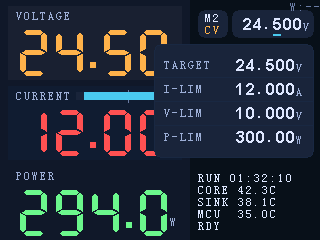
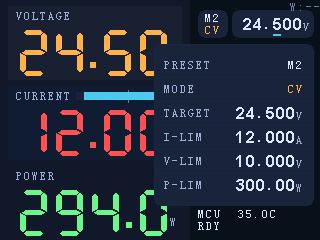
feat(ui-mock): add preset+mode rows to preview panel

diff --git a/tools/ui-mock/src/preset_preview_panel.rs b/tools/ui-mock/src/preset_preview_panel.rs
@@ -27,9 +27,12 @@ const COLOR_BG: u32 = 0x1c2638;
 const COLOR_BORDER: u32 = 0x1c2a3f;
 const COLOR_TEXT_LABEL: u32 = 0x9ab0d8;
 const COLOR_TEXT_VALUE: u32 = 0xdfe7ff;
+const COLOR_MODE_CV: u32 = 0xffb24a;
+const COLOR_MODE_CC: u32 = 0xff5252;
 
 #[derive(Clone, Debug)]
 pub struct PresetPreviewPanelVm {
+    pub preset_id: u8,
     pub mode: LoadMode,
     pub target_text: String<8>,
     pub v_lim_text: String<8>,
@@ -43,8 +46,8 @@ pub fn render_preset_preview_panel(
 ) {
     let mode = normalize_mode(vm.mode);
     let rows = match mode {
-        LoadMode::Cv => 4,
-        _ => 3,
+        LoadMode::Cv => 6,
+        _ => 5,
     };
     let panel_h = BORDER * 2 + PAD_Y * 2 + rows * ROW_H;
 
@@ -71,48 +74,106 @@ pub fn render_preset_preview_panel(
     let value_color = rgb(COLOR_TEXT_VALUE);
 
     let mut row_idx = 0;
-    for (label, value) in fields(mode, vm).into_iter().take(rows as usize) {
+    while row_idx < rows {
         let row_top = PANEL_TOP + BORDER + PAD_Y + row_idx * ROW_H;
         let row_bottom = row_top + ROW_H;
 
         let label_y = row_top + (ROW_H - small_h).max(0) / 2;
-        draw_text(
-            &mut canvas,
-            &ui_fonts::SMALL_FONT,
-            label,
-            label_x,
-            label_y,
-            label_color,
-            0,
-        );
 
-        let (num, unit) = split_value(value);
-        let num_w = text_width(&ui_fonts::SETPOINT_FONT, num, 0);
-        let unit_w = text_width(&ui_fonts::SMALL_FONT, unit, 0);
-        let total_w = num_w + UNIT_GAP + unit_w;
-        let value_x0 = (value_right - total_w).max(label_x);
+        match row_idx {
+            0 => {
+                draw_text(
+                    &mut canvas,
+                    &ui_fonts::SMALL_FONT,
+                    "PRESET",
+                    label_x,
+                    label_y,
+                    label_color,
+                    0,
+                );
 
-        let num_y = row_top + (ROW_H - num_h).max(0) / 2;
-        let unit_y = num_y + num_h - small_h;
+                let preset_value = preset_id_text(vm.preset_id);
+                let value_w = text_width(&ui_fonts::SMALL_FONT, preset_value.as_str(), 0);
+                let value_x0 = (value_right - value_w).max(label_x);
+                draw_text(
+                    &mut canvas,
+                    &ui_fonts::SMALL_FONT,
+                    preset_value.as_str(),
+                    value_x0,
+                    label_y,
+                    value_color,
+                    0,
+                );
+            }
+            1 => {
+                draw_text(
+                    &mut canvas,
+                    &ui_fonts::SMALL_FONT,
+                    "MODE",
+                    label_x,
+                    label_y,
+                    label_color,
+                    0,
+                );
 
-        draw_text(
-            &mut canvas,
-            &ui_fonts::SETPOINT_FONT,
-            num,
-            value_x0,
-            num_y,
-            value_color,
-            0,
-        );
-        draw_text(
-            &mut canvas,
-            &ui_fonts::SMALL_FONT,
-            unit,
-            value_x0 + num_w + UNIT_GAP,
-            unit_y,
-            label_color,
-            0,
-        );
+                let (mode_text, mode_color) = match mode {
+                    LoadMode::Cv => ("CV", rgb(COLOR_MODE_CV)),
+                    _ => ("CC", rgb(COLOR_MODE_CC)),
+                };
+                let value_w = text_width(&ui_fonts::SMALL_FONT, mode_text, 0);
+                let value_x0 = (value_right - value_w).max(label_x);
+                draw_text(
+                    &mut canvas,
+                    &ui_fonts::SMALL_FONT,
+                    mode_text,
+                    value_x0,
+                    label_y,
+                    mode_color,
+                    0,
+                );
+            }
+            _ => {
+                let (field_label, field_value) = numeric_field_at(mode, vm, row_idx - 2);
+
+                draw_text(
+                    &mut canvas,
+                    &ui_fonts::SMALL_FONT,
+                    field_label,
+                    label_x,
+                    label_y,
+                    label_color,
+                    0,
+                );
+
+                let (num, unit) = split_value(field_value);
+                let num_w = text_width(&ui_fonts::SETPOINT_FONT, num, 0);
+                let unit_w = text_width(&ui_fonts::SMALL_FONT, unit, 0);
+                let total_w = num_w + UNIT_GAP + unit_w;
+                let value_x0 = (value_right - total_w).max(label_x);
+
+                let num_y = row_top + (ROW_H - num_h).max(0) / 2;
+                let unit_y = num_y + num_h - small_h;
+
+                draw_text(
+                    &mut canvas,
+                    &ui_fonts::SETPOINT_FONT,
+                    num,
+                    value_x0,
+                    num_y,
+                    value_color,
+                    0,
+                );
+                draw_text(
+                    &mut canvas,
+                    &ui_fonts::SMALL_FONT,
+                    unit,
+                    value_x0 + num_w + UNIT_GAP,
+                    unit_y,
+                    label_color,
+                    0,
+                );
+            }
+        }
 
         row_idx += 1;
         if row_idx < rows {
@@ -136,21 +197,35 @@ fn normalize_mode(mode: LoadMode) -> LoadMode {
     }
 }
 
-fn fields<'a>(mode: LoadMode, vm: &'a PresetPreviewPanelVm) -> [(&'static str, &'a str); 4] {
+fn numeric_field_at<'a>(
+    mode: LoadMode,
+    vm: &'a PresetPreviewPanelVm,
+    idx: i32,
+) -> (&'static str, &'a str) {
     match mode {
-        LoadMode::Cv => [
-            ("TARGET", vm.target_text.as_str()),
-            ("I-LIM", vm.i_lim_text.as_str()),
-            ("V-LIM", vm.v_lim_text.as_str()),
-            ("P-LIM", vm.p_lim_text.as_str()),
-        ],
-        _ => [
-            ("TARGET", vm.target_text.as_str()),
-            ("V-LIM", vm.v_lim_text.as_str()),
-            ("P-LIM", vm.p_lim_text.as_str()),
-            ("", ""),
-        ],
+        LoadMode::Cv => match idx {
+            0 => ("TARGET", vm.target_text.as_str()),
+            1 => ("I-LIM", vm.i_lim_text.as_str()),
+            2 => ("V-LIM", vm.v_lim_text.as_str()),
+            _ => ("P-LIM", vm.p_lim_text.as_str()),
+        },
+        _ => match idx {
+            0 => ("TARGET", vm.target_text.as_str()),
+            1 => ("V-LIM", vm.v_lim_text.as_str()),
+            _ => ("P-LIM", vm.p_lim_text.as_str()),
+        },
     }
+}
+
+fn preset_id_text(preset_id: u8) -> String<3> {
+    let mut out = String::<3>::new();
+    let _ = out.push('M');
+    if (1..=9).contains(&preset_id) {
+        let _ = out.push((b'0' + preset_id) as char);
+    } else {
+        let _ = out.push('?');
+    }
+    out
 }
 
 fn split_value(value: &str) -> (&str, &str) {

diff --git a/tools/ui-mock/src/main.rs b/tools/ui-mock/src/main.rs
@@ -135,6 +135,7 @@ fn main() -> Result<(), Box<dyn std::error::Error>> {
     )?;
 
     let preview_cc = preset_preview_panel::PresetPreviewPanelVm {
+        preset_id: 2,
         mode: LoadMode::Cc,
         target_text: ui::preset_panel::format_av_3dp(12_000, 'A'),
         v_lim_text: ui::preset_panel::format_av_3dp(10_000, 'V'),
@@ -157,6 +158,7 @@ fn main() -> Result<(), Box<dyn std::error::Error>> {
     render_snapshot(&out_dir.join("main-display-mock-cv.png"), &cv, None, None)?;
 
     let preview_cv = preset_preview_panel::PresetPreviewPanelVm {
+        preset_id: 2,
         mode: LoadMode::Cv,
         target_text: ui::preset_panel::format_av_3dp(24_500, 'V'),
         v_lim_text: ui::preset_panel::format_av_3dp(10_000, 'V'),
